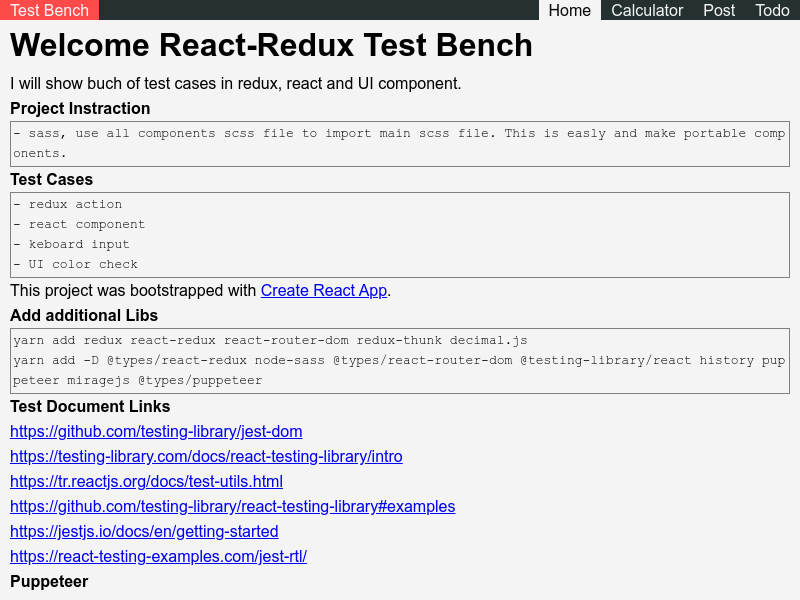
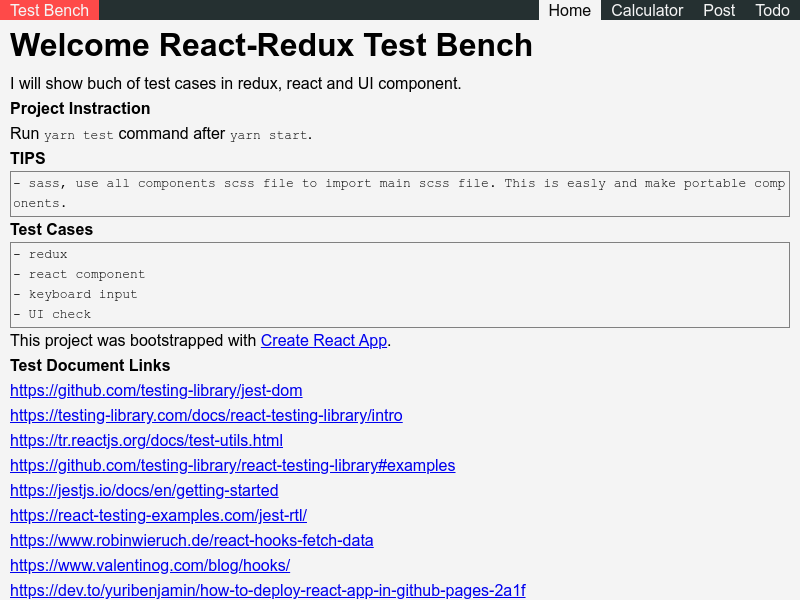
fix: test cases

diff --git a/src/__tests__/layout/layout.tsx b/src/__tests__/layout/layout.tsx
@@ -1,7 +1,8 @@
 import React from "react";
 import { Router } from 'react-router-dom'
-import {render, screen, fireEvent, getByTestId} from '@testing-library/react';
+import {render, screen, fireEvent, waitFor, waitForElement, getByAltText} from '@testing-library/react';
 import { createMemoryHistory } from 'history';
+import cheerio from "cheerio";
 
 import Layout from "components/layout/Layout";
 
@@ -23,13 +24,27 @@ function renderWithRouter(
   };
 }
 
-test('full app rendering/navigating', () => {
-  const {container} = renderWithRouter(<Layout/>);
-  // normally I'd use a data-testid, but just wanted to show this is also possible
+test('full app rendering/navigating', async () => {
+  const mockText = Promise.resolve(
+    '# hello'
+  );
+  const mockFetchPromise = Promise.resolve({
+    ok: true,
+    text: () => mockText
+  });
+
+  jest.spyOn(global as any, 'fetch').mockImplementation(() => mockFetchPromise);
+
+  const {container, getByText } = renderWithRouter(<Layout/>);
   // expect(container.getElementsByClassName('content')[0].innerHTML).toMatch('You are home');
-  expect(getByTestId(container, "title").textContent).toMatch("Welcome React-Redux Test Bench");
   const leftClick = {button: 0};
-  fireEvent.click(screen.getByText(/Calculator/i), leftClick);
-  // normally I'd use a data-testid, but just wanted to show this is also possible
-  expect(getByTestId(container, "title").textContent).toMatch("Calculator with history");
+  fireEvent.click(getByText(/Calculator/i), leftClick);
+  let $ = cheerio.load(container.innerHTML);
+  expect($('.title').children('p').text()).toBe("Calculator with history");
+
+  fireEvent.click(getByText(/Home/), leftClick);
+  await waitFor(()=>{container.querySelector('h1')}, );
+  // console.log(container.innerHTML);
+  $ = cheerio.load(container.innerHTML);
+  expect($('h1').text()).toBe("hello");
 })

diff --git a/src/__tests__/UI/main.tsx b/src/__tests__/UI/main.tsx
@@ -3,6 +3,7 @@ import puppeteer from "puppeteer";
 describe("Main UI tests", () =>{
   let browser:puppeteer.Browser;
   let page:puppeteer.Page;
+  // Use this arguments in launch(...
   // headless: false,
   // devtools: true,
   // slowMo: 250
@@ -15,18 +16,18 @@ describe("Main UI tests", () =>{
   });
 
   afterEach(async () => {
-    page.close()
+    await page.close()
   });
 
   afterAll(() => {
     browser.close()
   });
 
-  it("View", async() => {
-    await page.goto('http://localhost:3000');
+  it("View", async () => {
+    await page.goto('http://localhost:3000/testingtesting');
     await page.waitForSelector('h1', { visible: true});
     await page.screenshot({path: 'src/__tests__/UI/screen/home.png'});
-    await page.click('[href="/calc"]');
+    await page.click('[href$="/calc"]');
     await page.waitForSelector('[data-testid="title"]', { visible: true});
     await page.screenshot({path: 'src/__tests__/UI/screen/calc.png'});
     await page.emulate(puppeteer.devices['iPhone 5 landscape'])

diff --git a/src/__tests__/calculator/calculateRtesting.tsx b/src/__tests__/calculator/calculateRtesting.tsx
@@ -29,7 +29,7 @@ function renderWithRedux(
 describe("Press and History Tests", ()=> {
   afterEach(()=>{
     cleanup();
-  })
+  });
 
   it("Press 9+2 and equal should be 11", ()=>{
       const { container, getByText } = renderWithRedux(<Calculator />);

diff --git a/README.md b/README.md
@@ -3,28 +3,23 @@
 I will show buch of test cases in redux, react and UI component.
 
 __Project Instraction__  
+
+Run `yarn test` command after `yarn start`.
+
+__TIPS__ 
 ```
 - sass, use all components scss file to import main scss file. This is easly and make portable components.
 ```
 
 __Test Cases__  
 ```
-- redux action
+- redux
 - react component
-- keboard input
-- UI color check
+- keyboard input
+- UI check
 ```
 
 This project was bootstrapped with [Create React App](https://github.com/facebook/create-react-app).
-
-__Add additional Libs__  
-```shell
-yarn add redux react-redux react-router-dom redux-thunk decimal.js axios
-
-yarn add -D @types/react-redux node-sass @types/react-router-dom @testing-library/react history puppeteer miragejs @types/puppeteer enzyme enzyme-adapter-react-16 @types/enzyme @types/enzyme-adapter-react-16 gh-pages jest-environment-jsdom-sixteen @types/testing-library__react @types/pretty-format @types/react-dom
-```
-
-Don't run above commands, just use `yarn install`.
 
 __Test Document Links__  
 https://github.com/testing-library/jest-dom  
@@ -32,11 +27,23 @@ https://testing-library.com/docs/react-testing-library/intro
 https://tr.reactjs.org/docs/test-utils.html  
 https://github.com/testing-library/react-testing-library#examples  
 https://jestjs.io/docs/en/getting-started  
-https://react-testing-examples.com/jest-rtl/
+https://react-testing-examples.com/jest-rtl/  
+https://www.robinwieruch.de/react-hooks-fetch-data  
+https://www.valentinog.com/blog/hooks/  
+https://dev.to/yuribenjamin/how-to-deploy-react-app-in-github-pages-2a1f  
+https://www.chaijs.com/plugins/  
+https://sinonjs.org/  
+https://blog.sapegin.me/all/react-testing-3-jest-and-react-testing-library/  
+https://developer.mozilla.org/en-US/docs/Web/CSS/CSS_Selectors  
+https://caniuse.com/  
+https://immerjs.github.io/immer/docs/introduction  
 
 __Puppeteer__  
 https://pptr.dev/  
 https://try-puppeteer.appspot.com/  
+
+__playwright__  
+https://github.com/microsoft/playwright  
 
 ## Available Scripts
 
